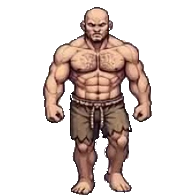
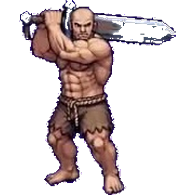
BUILD 435: install 6 sword attack sheets (9 frames each, N/S/NE/NW/SE/SW)

diff --git a/src/game/iso/barbarian.ts b/src/game/iso/barbarian.ts
@@ -67,15 +67,15 @@ export const BARB_FRAMES: Record<string, Record<string, Record<string, string[]>
     upleft: { idle: ['barbarian/blue_upleft_idle_0.png'], walk: ['barbarian/blue_upleft_walk_0.png', 'barbarian/blue_upleft_walk_1.png', 'barbarian/blue_upleft_walk_2.png', 'barbarian/blue_upleft_walk_3.png', 'barbarian/blue_upleft_walk_4.png', 'barbarian/blue_upleft_walk_5.png', 'barbarian/blue_upleft_walk_6.png', 'barbarian/blue_upleft_walk_7.png', 'barbarian/blue_upleft_walk_8.png'], attack: ['barbarian/blue_up_attack_0.png', 'barbarian/blue_up_attack_1.png'] },
   },
   sword: {
-    down: { idle: ['barbarian/sword_down_idle_0.png'], walk: ['barbarian/sword_down_walk_0.png', 'barbarian/sword_down_walk_1.png'], attack: ['barbarian/sword_down_attack_0.png', 'barbarian/sword_down_attack_1.png', 'barbarian/sword_down_attack_2.png'] },
+    down: { idle: ['barbarian/sword_down_idle_0.png'], walk: ['barbarian/sword_down_walk_0.png', 'barbarian/sword_down_walk_1.png'], attack: ['barbarian/sword_down_attack_0.png', 'barbarian/sword_down_attack_1.png', 'barbarian/sword_down_attack_2.png', 'barbarian/sword_down_attack_3.png', 'barbarian/sword_down_attack_4.png', 'barbarian/sword_down_attack_5.png', 'barbarian/sword_down_attack_6.png', 'barbarian/sword_down_attack_7.png', 'barbarian/sword_down_attack_8.png'] },
     side: { idle: ['barbarian/sword_side_idle_0.png'], walk: ['barbarian/sword_side_walk_0.png', 'barbarian/sword_side_walk_1.png'], attack: ['barbarian/sword_side_attack_0.png', 'barbarian/sword_side_attack_1.png', 'barbarian/sword_side_attack_2.png'] },
     right: { idle: ['barbarian/sword_right_idle_0.png'], walk: ['barbarian/sword_right_walk_0.png', 'barbarian/sword_right_walk_1.png', 'barbarian/sword_right_walk_2.png', 'barbarian/sword_right_walk_3.png', 'barbarian/sword_right_walk_4.png', 'barbarian/sword_right_walk_5.png', 'barbarian/sword_right_walk_6.png', 'barbarian/sword_right_walk_7.png', 'barbarian/sword_right_walk_8.png'], attack: ['barbarian/sword_right_attack_0.png', 'barbarian/sword_right_attack_1.png', 'barbarian/sword_right_attack_2.png'] },
     left: { idle: ['barbarian/sword_left_idle_0.png'], walk: ['barbarian/sword_left_walk_0.png', 'barbarian/sword_left_walk_1.png', 'barbarian/sword_left_walk_2.png', 'barbarian/sword_left_walk_3.png', 'barbarian/sword_left_walk_4.png', 'barbarian/sword_left_walk_5.png', 'barbarian/sword_left_walk_6.png', 'barbarian/sword_left_walk_7.png', 'barbarian/sword_left_walk_8.png'], attack: ['barbarian/sword_left_attack_0.png', 'barbarian/sword_left_attack_1.png', 'barbarian/sword_left_attack_2.png'] },
-    up: { idle: ['barbarian/sword_up_idle_0.png'], walk: ['barbarian/sword_up_walk_0.png', 'barbarian/sword_up_walk_1.png', 'barbarian/sword_up_walk_2.png', 'barbarian/sword_up_walk_3.png', 'barbarian/sword_up_walk_4.png', 'barbarian/sword_up_walk_5.png', 'barbarian/sword_up_walk_6.png', 'barbarian/sword_up_walk_7.png', 'barbarian/sword_up_walk_8.png'], attack: ['barbarian/sword_up_attack_0.png', 'barbarian/sword_up_attack_1.png', 'barbarian/sword_up_attack_2.png'] },
-    upright: { idle: ['barbarian/sword_upright_idle_0.png'], walk: ['barbarian/sword_upright_walk_0.png', 'barbarian/sword_upright_walk_1.png', 'barbarian/sword_upright_walk_2.png', 'barbarian/sword_upright_walk_3.png', 'barbarian/sword_upright_walk_4.png', 'barbarian/sword_upright_walk_5.png', 'barbarian/sword_upright_walk_6.png', 'barbarian/sword_upright_walk_7.png', 'barbarian/sword_upright_walk_8.png'], attack: ['barbarian/sword_up_attack_0.png', 'barbarian/sword_up_attack_1.png', 'barbarian/sword_up_attack_2.png'] },
-    upleft: { idle: ['barbarian/sword_upleft_idle_0.png'], walk: ['barbarian/sword_upleft_walk_0.png', 'barbarian/sword_upleft_walk_1.png', 'barbarian/sword_upleft_walk_2.png', 'barbarian/sword_upleft_walk_3.png', 'barbarian/sword_upleft_walk_4.png', 'barbarian/sword_upleft_walk_5.png', 'barbarian/sword_upleft_walk_6.png', 'barbarian/sword_upleft_walk_7.png', 'barbarian/sword_upleft_walk_8.png'], attack: ['barbarian/sword_up_attack_0.png', 'barbarian/sword_up_attack_1.png', 'barbarian/sword_up_attack_2.png'] },
-    downright: { idle: ['barbarian/sword_downright_idle_0.png'], walk: ['barbarian/sword_downright_walk_0.png', 'barbarian/sword_downright_walk_1.png', 'barbarian/sword_downright_walk_2.png', 'barbarian/sword_downright_walk_3.png', 'barbarian/sword_downright_walk_4.png', 'barbarian/sword_downright_walk_5.png', 'barbarian/sword_downright_walk_6.png', 'barbarian/sword_downright_walk_7.png', 'barbarian/sword_downright_walk_8.png'], attack: ['barbarian/sword_down_attack_0.png', 'barbarian/sword_down_attack_1.png', 'barbarian/sword_down_attack_2.png'] },
-    downleft: { idle: ['barbarian/sword_downleft_idle_0.png'], walk: ['barbarian/sword_downleft_walk_0.png', 'barbarian/sword_downleft_walk_1.png', 'barbarian/sword_downleft_walk_2.png', 'barbarian/sword_downleft_walk_3.png', 'barbarian/sword_downleft_walk_4.png', 'barbarian/sword_downleft_walk_5.png', 'barbarian/sword_downleft_walk_6.png', 'barbarian/sword_downleft_walk_7.png', 'barbarian/sword_downleft_walk_8.png'], attack: ['barbarian/sword_down_attack_0.png', 'barbarian/sword_down_attack_1.png', 'barbarian/sword_down_attack_2.png'] },
+    up: { idle: ['barbarian/sword_up_idle_0.png'], walk: ['barbarian/sword_up_walk_0.png', 'barbarian/sword_up_walk_1.png', 'barbarian/sword_up_walk_2.png', 'barbarian/sword_up_walk_3.png', 'barbarian/sword_up_walk_4.png', 'barbarian/sword_up_walk_5.png', 'barbarian/sword_up_walk_6.png', 'barbarian/sword_up_walk_7.png', 'barbarian/sword_up_walk_8.png'], attack: ['barbarian/sword_up_attack_0.png', 'barbarian/sword_up_attack_1.png', 'barbarian/sword_up_attack_2.png', 'barbarian/sword_up_attack_3.png', 'barbarian/sword_up_attack_4.png', 'barbarian/sword_up_attack_5.png', 'barbarian/sword_up_attack_6.png', 'barbarian/sword_up_attack_7.png', 'barbarian/sword_up_attack_8.png'] },
+    upright: { idle: ['barbarian/sword_upright_idle_0.png'], walk: ['barbarian/sword_upright_walk_0.png', 'barbarian/sword_upright_walk_1.png', 'barbarian/sword_upright_walk_2.png', 'barbarian/sword_upright_walk_3.png', 'barbarian/sword_upright_walk_4.png', 'barbarian/sword_upright_walk_5.png', 'barbarian/sword_upright_walk_6.png', 'barbarian/sword_upright_walk_7.png', 'barbarian/sword_upright_walk_8.png'], attack: ['barbarian/sword_upright_attack_0.png', 'barbarian/sword_upright_attack_1.png', 'barbarian/sword_upright_attack_2.png', 'barbarian/sword_upright_attack_3.png', 'barbarian/sword_upright_attack_4.png', 'barbarian/sword_upright_attack_5.png', 'barbarian/sword_upright_attack_6.png', 'barbarian/sword_upright_attack_7.png', 'barbarian/sword_upright_attack_8.png'] },
+    upleft: { idle: ['barbarian/sword_upleft_idle_0.png'], walk: ['barbarian/sword_upleft_walk_0.png', 'barbarian/sword_upleft_walk_1.png', 'barbarian/sword_upleft_walk_2.png', 'barbarian/sword_upleft_walk_3.png', 'barbarian/sword_upleft_walk_4.png', 'barbarian/sword_upleft_walk_5.png', 'barbarian/sword_upleft_walk_6.png', 'barbarian/sword_upleft_walk_7.png', 'barbarian/sword_upleft_walk_8.png'], attack: ['barbarian/sword_upleft_attack_0.png', 'barbarian/sword_upleft_attack_1.png', 'barbarian/sword_upleft_attack_2.png', 'barbarian/sword_upleft_attack_3.png', 'barbarian/sword_upleft_attack_4.png', 'barbarian/sword_upleft_attack_5.png', 'barbarian/sword_upleft_attack_6.png', 'barbarian/sword_upleft_attack_7.png', 'barbarian/sword_upleft_attack_8.png'] },
+    downright: { idle: ['barbarian/sword_downright_idle_0.png'], walk: ['barbarian/sword_downright_walk_0.png', 'barbarian/sword_downright_walk_1.png', 'barbarian/sword_downright_walk_2.png', 'barbarian/sword_downright_walk_3.png', 'barbarian/sword_downright_walk_4.png', 'barbarian/sword_downright_walk_5.png', 'barbarian/sword_downright_walk_6.png', 'barbarian/sword_downright_walk_7.png', 'barbarian/sword_downright_walk_8.png'], attack: ['barbarian/sword_downright_attack_0.png', 'barbarian/sword_downright_attack_1.png', 'barbarian/sword_downright_attack_2.png', 'barbarian/sword_downright_attack_3.png', 'barbarian/sword_downright_attack_4.png', 'barbarian/sword_downright_attack_5.png', 'barbarian/sword_downright_attack_6.png', 'barbarian/sword_downright_attack_7.png', 'barbarian/sword_downright_attack_8.png'] },
+    downleft: { idle: ['barbarian/sword_downleft_idle_0.png'], walk: ['barbarian/sword_downleft_walk_0.png', 'barbarian/sword_downleft_walk_1.png', 'barbarian/sword_downleft_walk_2.png', 'barbarian/sword_downleft_walk_3.png', 'barbarian/sword_downleft_walk_4.png', 'barbarian/sword_downleft_walk_5.png', 'barbarian/sword_downleft_walk_6.png', 'barbarian/sword_downleft_walk_7.png', 'barbarian/sword_downleft_walk_8.png'], attack: ['barbarian/sword_downleft_attack_0.png', 'barbarian/sword_downleft_attack_1.png', 'barbarian/sword_downleft_attack_2.png', 'barbarian/sword_downleft_attack_3.png', 'barbarian/sword_downleft_attack_4.png', 'barbarian/sword_downleft_attack_5.png', 'barbarian/sword_downleft_attack_6.png', 'barbarian/sword_downleft_attack_7.png', 'barbarian/sword_downleft_attack_8.png'] },
   },
   bow: {
     down: { idle: ['barbarian/bow_down_idle_0.png'], walk: ['barbarian/bow_down_walk_0.png', 'barbarian/bow_down_walk_1.png'], attack: ['barbarian/bow_down_attack_0.png', 'barbarian/bow_down_attack_1.png', 'barbarian/bow_down_attack_2.png'] },

diff --git a/index.html b/index.html
@@ -1,1 +1,1 @@
-<!doctype html><html lang="en"><head><!-- BUILD309-VIEWPORT-FIX-MARKER --><meta charset="UTF-8"><meta name="viewport" content="width=device-width, initial-scale=1.0, maximum-scale=1.0, user-scalable=no"><meta name="theme-color" content="#17362e"><link rel="icon" type="image/svg+xml" href="favicon.svg"><meta name="description" content="Explore Mosslight Crossing in the Adventure Game field journal."><title>Adventure Game — Mosslight Crossing</title></head><body><div id="root"></div><script>window.__AG_BUILD="434";(function(){var shown=false;function code(m){var h=0,s=window.__AG_BUILD+"|"+m;for(var i=0;i<s.length;i++){h=(Math.imul(h,31)+s.charCodeAt(i))|0;}return "AG"+window.__AG_BUILD+"-"+(h>>>0).toString(36).toUpperCase().padStart(6,"0").slice(-5);}function show(m,k){if(shown||window.__agBooted)return;shown=true;var d=document.createElement("div");d.id="ag-boot-crash";var p=document.createElement("div");p.className="ag-boot-panel";var t=document.createElement("div");t.className="ag-boot-title";t.textContent="\u26a0 GAME FAILED TO START";var c=document.createElement("div");c.className="ag-boot-code";c.textContent=code(String(m));var g=document.createElement("div");g.className="ag-boot-msg";g.textContent=String(m).slice(0,300);var n=document.createElement("div");n.className="ag-boot-kind";n.textContent=k;var b=document.createElement("button");b.textContent="Reload game";b.onclick=function(){location.reload();};p.appendChild(t);p.appendChild(c);p.appendChild(g);p.appendChild(n);p.appendChild(b);d.appendChild(p);document.body.appendChild(d);}window.addEventListener("error",function(e){if(e.target&&e.target!==window)return;show(e.message||"script error","boot error");},true);window.addEventListener("unhandledrejection",function(e){var r=e.reason;show((r&&(r.message||r))||"rejection","boot rejection");});setTimeout(function(){if(!window.__agBooted)show("The game did not finish loading in time.","load timeout");},20000);})();</script><style>#ag-boot-crash{position:fixed;inset:0;z-index:99999;background:#0d1a16;display:flex;align-items:center;justify-content:center;padding:24px}#ag-boot-crash .ag-boot-panel{max-width:420px;width:100%;background:#14261f;border:1px solid #2c4a3e;border-radius:12px;padding:24px;text-align:center;color:#e8f0e9;font-family:system-ui,sans-serif}#ag-boot-crash .ag-boot-title{font-size:20px;font-weight:800;letter-spacing:.5px}#ag-boot-crash .ag-boot-code{font-family:monospace;font-size:22px;color:#ffd75e;margin:12px 0;letter-spacing:1px}#ag-boot-crash .ag-boot-msg{font-size:13px;color:#b9c9bd;word-break:break-word}#ag-boot-crash .ag-boot-kind{font-size:11px;color:#7d8f83;margin-top:8px;text-transform:uppercase;letter-spacing:1px}#ag-boot-crash button{margin-top:16px;background:#e8a33d;border:0;border-radius:8px;padding:10px 22px;font-size:15px;font-weight:700;color:#231603;cursor:pointer}</style><script type="module" src="/src/main.tsx"></script></body></html>
+<!doctype html><html lang="en"><head><!-- BUILD309-VIEWPORT-FIX-MARKER --><meta charset="UTF-8"><meta name="viewport" content="width=device-width, initial-scale=1.0, maximum-scale=1.0, user-scalable=no"><meta name="theme-color" content="#17362e"><link rel="icon" type="image/svg+xml" href="favicon.svg"><meta name="description" content="Explore Mosslight Crossing in the Adventure Game field journal."><title>Adventure Game — Mosslight Crossing</title></head><body><div id="root"></div><script>window.__AG_BUILD="435";(function(){var shown=false;function code(m){var h=0,s=window.__AG_BUILD+"|"+m;for(var i=0;i<s.length;i++){h=(Math.imul(h,31)+s.charCodeAt(i))|0;}return "AG"+window.__AG_BUILD+"-"+(h>>>0).toString(36).toUpperCase().padStart(6,"0").slice(-5);}function show(m,k){if(shown||window.__agBooted)return;shown=true;var d=document.createElement("div");d.id="ag-boot-crash";var p=document.createElement("div");p.className="ag-boot-panel";var t=document.createElement("div");t.className="ag-boot-title";t.textContent="\u26a0 GAME FAILED TO START";var c=document.createElement("div");c.className="ag-boot-code";c.textContent=code(String(m));var g=document.createElement("div");g.className="ag-boot-msg";g.textContent=String(m).slice(0,300);var n=document.createElement("div");n.className="ag-boot-kind";n.textContent=k;var b=document.createElement("button");b.textContent="Reload game";b.onclick=function(){location.reload();};p.appendChild(t);p.appendChild(c);p.appendChild(g);p.appendChild(n);p.appendChild(b);d.appendChild(p);document.body.appendChild(d);}window.addEventListener("error",function(e){if(e.target&&e.target!==window)return;show(e.message||"script error","boot error");},true);window.addEventListener("unhandledrejection",function(e){var r=e.reason;show((r&&(r.message||r))||"rejection","boot rejection");});setTimeout(function(){if(!window.__agBooted)show("The game did not finish loading in time.","load timeout");},20000);})();</script><style>#ag-boot-crash{position:fixed;inset:0;z-index:99999;background:#0d1a16;display:flex;align-items:center;justify-content:center;padding:24px}#ag-boot-crash .ag-boot-panel{max-width:420px;width:100%;background:#14261f;border:1px solid #2c4a3e;border-radius:12px;padding:24px;text-align:center;color:#e8f0e9;font-family:system-ui,sans-serif}#ag-boot-crash .ag-boot-title{font-size:20px;font-weight:800;letter-spacing:.5px}#ag-boot-crash .ag-boot-code{font-family:monospace;font-size:22px;color:#ffd75e;margin:12px 0;letter-spacing:1px}#ag-boot-crash .ag-boot-msg{font-size:13px;color:#b9c9bd;word-break:break-word}#ag-boot-crash .ag-boot-kind{font-size:11px;color:#7d8f83;margin-top:8px;text-transform:uppercase;letter-spacing:1px}#ag-boot-crash button{margin-top:16px;background:#e8a33d;border:0;border-radius:8px;padding:10px 22px;font-size:15px;font-weight:700;color:#231603;cursor:pointer}</style><script type="module" src="/src/main.tsx"></script></body></html>
